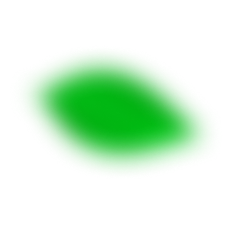
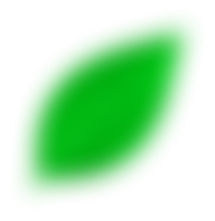
Добавил листики абсолют

diff --git a/katalog.css b/katalog.css
@@ -58,6 +58,7 @@
     display: grid;
     grid-template-columns: 1fr 1fr 1fr;
     gap: 20px;
+    position: relative;
 }
 
 .g-cards
@@ -70,4 +71,29 @@
 .g-cards :not(:first-child)
 {
     padding-left: 44px;
+}
+
+.katalog__products-top-berry
+{
+    position: absolute;
+    /* width: 270px;
+    height: 274px; */
+    filter: blur(7px);
+    transform: rotate(64deg);
+    left: -200px;
+    top: 50px;
+}
+
+.katalog__products-center-img
+{
+    position: absolute;
+    bottom: 100px;
+    right: -160px;
+}
+
+.katalog__products-botton-img
+{
+    position: absolute;
+    left: -200px;
+    top: 30px;
 }

diff --git a/index.html b/index.html
@@ -68,6 +68,7 @@
                         <p class="global__description-card"></p>
                         <p class="global__price-card">150 ₽/шт.</p>
                         <button class="g-button g-button--small">Заказать</button>
+                        <img class="katalog__products-top-berry" src="imgs/berry.png" alt="">
                     </div>
                     <div class="katalog__products-top-cards-center g-cards">
                         <img src="" alt="">
@@ -106,6 +107,7 @@
                         <p class="global__description-card"></p>
                         <p class="global__price-card">150 ₽/шт.</p>
                         <button class="g-button g-button--small">Заказать</button>
+                        <img class="katalog__products-center-img" src="imgs/leaf.png" alt="">
                     </div>
                 </div>
                 <!-- КАТАЛОГ BOTTON ///////////////////////////////////////////////////////////// -->
@@ -116,6 +118,7 @@
                         <p class="global__description-card"></p>
                         <p class="global__price-card">150 ₽/шт.</p>
                         <button class="g-button g-button--small">Заказать</button>
+                        <img class="katalog__products-botton-img" src="imgs/leaf (1).png" alt="">
                     </div>
                     <div class="katalog__products-botton-cards-center g-cards">
                         <img src="" alt="">